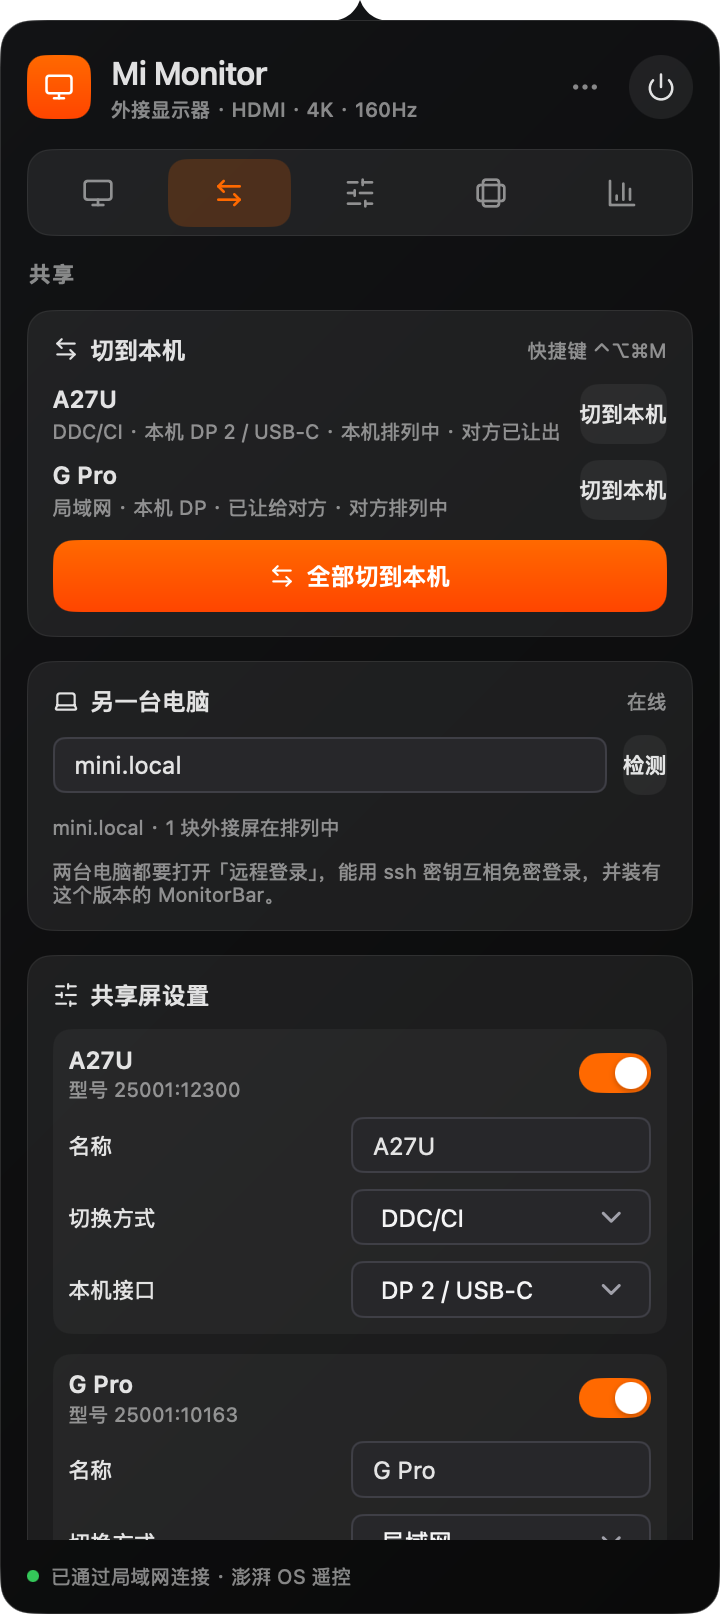
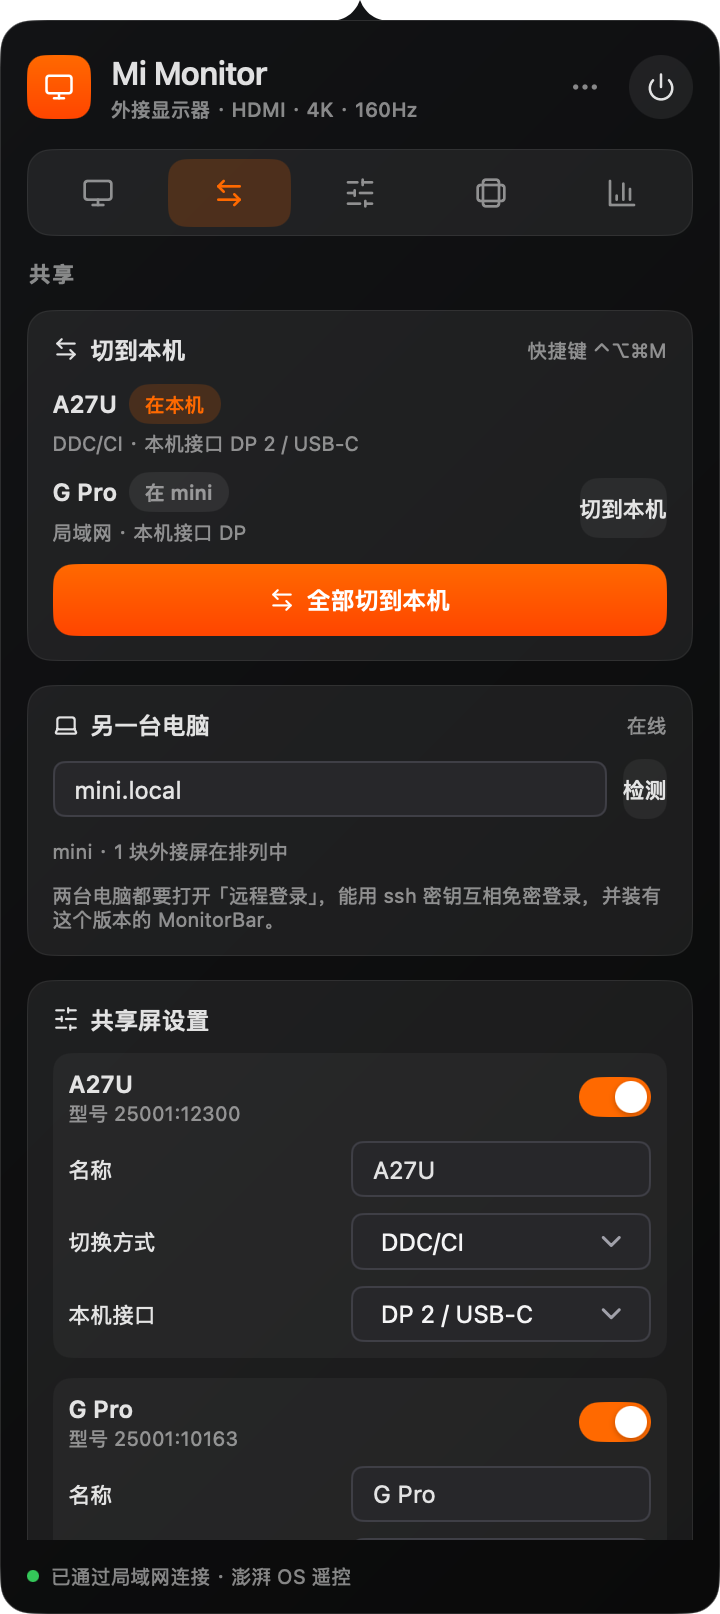
Show where each shared screen is, not the last outcome
The pull card kept saying 已切到本机 after the other computer had taken the
screens. Each shared screen now shows which computer it is on, read from the
two arrangements (after a pull only one keeps it), named by Mac model. When
the displays change here, the other side is asked again and an outcome older
than a few seconds is cleared. A screen already here has no 切到本机 button.

diff --git a/share_tab.go b/share_tab.go
@@ -33,13 +33,15 @@ func (p *panel) pullCard(c *ui.Context, detailed bool) {
 			ui.Text(c, "还没有共享屏。在「共享屏设置」里打开两台电脑共用的显示器。").FontSize(10).TextColor(muted)
 			return
 		}
-		if detailed {
-			ui.Column(c).Gap(8).Children(func() {
-				for _, sc := range s.prefs.Shared {
+		ui.Column(c).Gap(8).Children(func() {
+			for _, sc := range s.prefs.Shared {
+				if detailed {
 					p.sharedRow(c.Key(sc.Key), sc)
+				} else {
+					p.sharedLine(c.Key(sc.Key), sc)
 				}
-			})
-		}
+			}
+		})
 		btn := ui.Box(c.Key("pull-all")).Height(36).Radius(10).Center().Cursor(ui.CursorPointer).Label("全部切到本机")
 		if s.share.pulling {
 			btn.Background(ui.RGBA(255, 255, 255, 0.08))
@@ -66,25 +68,47 @@ func (p *panel) pullCard(c *ui.Context, detailed bool) {
 	})
 }
 
+// sharedLine is a shared screen on 概览: its name and where it is.
+func (p *panel) sharedLine(c *ui.Context, sc sharedScreen) {
+	where, here := p.s.location(sc.Key)
+	ui.Row(c).Gap(8).AlignItems(ui.Center).Children(func() {
+		ui.Text(c, sc.Name).FontSize(12).FontWeight(500).SingleLine().Grow(1)
+		locationPill(c, where, here)
+	})
+}
+
+// sharedRow is a shared screen on 共享: where it is, how it switches, and
+// its own 切到本机 when it is elsewhere.
 func (p *panel) sharedRow(c *ui.Context, sc sharedScreen) {
 	s := p.s
+	where, here := s.location(sc.Key)
 	ui.Row(c).Gap(8).AlignItems(ui.Center).Children(func() {
-		ui.Column(c).Gap(3).Grow(1).Children(func() {
-			ui.Text(c, sc.Name).FontSize(12).FontWeight(600).SingleLine()
+		ui.Column(c).Gap(4).Grow(1).Children(func() {
+			ui.Row(c).Gap(6).AlignItems(ui.Center).Children(func() {
+				ui.Text(c, sc.Name).FontSize(12).FontWeight(600).SingleLine()
+				locationPill(c, where, here)
+			})
 			channel := "DDC/CI"
 			if sc.Channel == channelLAN {
 				channel = "局域网"
 			}
-			states := []string{channel + " · 本机 " + inputName(sc, s.inputs), s.localState(sc.Key)}
-			if peer := s.peerState(sc.Key); peer != "" {
-				states = append(states, peer)
-			}
-			ui.Text(c, strings.Join(states, " · ")).FontSize(10).TextColor(muted).SingleLine()
+			ui.Text(c, channel+" · 本机接口 "+inputName(sc, s.inputs)).FontSize(10).TextColor(muted).SingleLine()
 		})
-		if chipText(c.Key("go"), "切到本机", false) && !s.share.pulling {
+		if !here && chipText(c.Key("go"), "切到本机", false) && !s.share.pulling {
 			s.pullScreen(sc.Key)
 		}
 	})
+}
+
+// locationPill marks where a screen is, lit when it is here.
+func locationPill(c *ui.Context, text string, here bool) {
+	pill := ui.Box(c).Height(20).PaddingX(8).Radius(10).Center()
+	if here {
+		pill.Background(accent.Alpha(0.18)).TextColor(accent)
+	} else {
+		pill.Background(ui.RGBA(255, 255, 255, 0.07)).TextColor(muted)
+	}
+	pill.Children(func() { ui.Text(c, text).FontSize(10).FontWeight(600).SingleLine() })
 }
 
 // peerCard sets and checks the other computer.
@@ -116,7 +140,7 @@ func (p *panel) peerCard(c *ui.Context) {
 		})
 		switch {
 		case s.share.peer != nil:
-			ui.Text(c, fmt.Sprintf("%s · %d 块外接屏在排列中", s.share.peer.Host, activeCount(s.share.peer.Screens))).FontSize(10).TextColor(muted)
+			ui.Text(c, fmt.Sprintf("%s · %d 块外接屏在排列中", s.share.peer.Label(), activeCount(s.share.peer.Screens))).FontSize(10).TextColor(muted)
 		case s.share.peerErr != "":
 			ui.Text(c, s.share.peerErr).FontSize(10).TextColor(muted)
 		}

diff --git a/share_test.go b/share_test.go
@@ -161,9 +161,8 @@ func TestShareTab(t *testing.T) {
 	p, _ := testPanel(t)
 	seedShare(p)
 	tt := newTester(p)
-	for _, want := range []string{"切到本机", "全部切到本机", "快捷键 ⌃⌥⌘M", "A27U", "G Pro",
-		"DDC/CI · 本机 DP 2 / USB-C · 本机排列中 · 对方已让出", "局域网 · 本机 DP · 已让给对方 · 对方排列中",
-		"另一台电脑", "在线", "共享屏设置"} {
+	for _, want := range []string{"切到本机", "全部切到本机", "快捷键 ⌃⌥⌘M", "A27U", "G Pro", "在本机", "在 mini",
+		"DDC/CI · 本机接口 DP 2 / USB-C", "局域网 · 本机接口 DP", "另一台电脑", "在线", "共享屏设置"} {
 		if !tt.HasText(want) {
 			t.Errorf("missing %q in %q", want, tt.Texts())
 		}
@@ -191,5 +190,60 @@ func TestInputName(t *testing.T) {
 	}
 	if got := shortcutLabel("Ctrl+Alt+Cmd+M"); got != "⌃⌥⌘M" {
 		t.Errorf("shortcut label %q", got)
+	}
+}
+
+func TestLocation(t *testing.T) {
+	p, _ := testPanel(t)
+	s := p.s
+	here := display.Screen{ID: 3, Vendor: 25001, Model: 12300, Active: true}
+	cases := []struct {
+		name     string
+		local    []display.Screen
+		disabled map[string]uint32
+		peer     *peer.Status
+		want     string
+		wantHere bool
+	}{
+		{"here only", []display.Screen{here}, nil, &peer.Status{Host: "mini.local"}, "在本机", true},
+		{"there only", nil, map[string]uint32{keyA27U: 3}, &peer.Status{Host: "mini.local", Name: "Sqlver的Mac mini",
+			Screens: []peer.Screen{{Key: keyA27U, Active: true}}}, "在 Sqlver的Mac mini", false},
+		{"both", []display.Screen{here}, nil, &peer.Status{Host: "mini.local", Screens: []peer.Screen{{Key: keyA27U, Active: true}}}, "两台都连着", false},
+		{"peer unknown, here", []display.Screen{here}, nil, nil, "本机已连接", true},
+		{"peer unknown, given away", nil, map[string]uint32{keyA27U: 3}, nil, "已让给另一台", false},
+	}
+	for _, c := range cases {
+		s.share.screens, s.share.disabled, s.share.peer = c.local, c.disabled, c.peer
+		if got, h := s.location(keyA27U); got != c.want || h != c.wantHere {
+			t.Errorf("%s: location = %q, %v; want %q, %v", c.name, got, h, c.want, c.wantHere)
+		}
+	}
+}
+
+// A pull's outcome must not outlive the other computer taking the screens.
+func TestStaleResultsClear(t *testing.T) {
+	p, _ := testPanel(t)
+	s := p.s
+	s.share.results, s.share.resultsAt = []string{"A27U：已切到本机"}, time.Now()
+	s.screensChanged() // the pull's own display change, moments later
+	if len(s.share.results) == 0 {
+		t.Fatal("a fresh outcome was cleared")
+	}
+	s.share.resultsAt = time.Now().Add(-time.Minute)
+	s.screensChanged() // later: the other side took the screen
+	if len(s.share.results) != 0 {
+		t.Errorf("stale outcome kept: %q", s.share.results)
+	}
+}
+
+func TestOverviewShowsWhere(t *testing.T) {
+	p, _ := testPanel(t)
+	seedShare(p)
+	p.s.prefs.Tab = "概览"
+	tt := newTester(p)
+	for _, want := range []string{"A27U", "在本机", "G Pro", "在 mini", "全部切到本机"} {
+		if !tt.HasText(want) {
+			t.Errorf("missing %q in %q", want, tt.Texts())
+		}
 	}
 }

diff --git a/store_share.go b/store_share.go
@@ -4,6 +4,7 @@ import (
 	"fmt"
 	"slices"
 	"strings"
+	"time"
 
 	"github.com/egoist/mygo"
 
@@ -21,7 +22,8 @@ type shareState struct {
 	checking   bool
 	pulling    bool
 	results    []string // the last 切到本机, one line per screen
-	shortcutOn string   // the shortcut registered, "" when none
+	resultsAt  time.Time
+	shortcutOn string // the shortcut registered, "" when none
 }
 
 func (s *store) peerLink() peer.SSH { return peer.SSH{Host: s.prefs.PeerHost} }
@@ -83,35 +85,51 @@ func (s *store) pullScreens(screens []sharedScreen) {
 		results := pull(ops, screens)
 		shareLog("pull done: %s", strings.Join(results, " | "))
 		s.post(func() {
-			s.share.pulling, s.share.results = false, results
+			s.share.pulling, s.share.results, s.share.resultsAt = false, results, time.Now()
 			s.refreshScreens()
 			s.checkPeer()
 		})
 	}()
 }
 
-// localState names where a shared screen stands on this computer.
-func (s *store) localState(key string) string {
-	if sc, ok := display.FindScreen(s.share.screens, key); ok && sc.Active {
-		return "本机排列中"
+// screensChanged follows the displays changing here: the other computer
+// may have just taken a screen away, so the last outcome no longer holds
+// and the other side's state is asked again.
+func (s *store) screensChanged() {
+	s.refreshScreens()
+	if !s.share.pulling && time.Since(s.share.resultsAt) > 3*time.Second {
+		s.share.results = nil
 	}
-	if s.share.disabled[key] != 0 {
-		return "已让给对方"
-	}
-	return "本机无链路"
+	s.checkPeer()
 }
 
-// peerState names where a shared screen stands on the other computer.
-func (s *store) peerState(key string) string {
-	switch {
-	case s.prefs.PeerHost == "":
-		return ""
-	case s.share.peer == nil:
-		return "对方未连接"
-	case s.share.peer.Has(key):
-		return "对方排列中"
+// location says which computer a shared screen is on, as far as the two
+// arrangements tell: after 切到本机 only one of them keeps it. here is true
+// when it is this computer.
+func (s *store) location(key string) (text string, here bool) {
+	local := false
+	if sc, ok := display.FindScreen(s.share.screens, key); ok && sc.Active {
+		local = true
 	}
-	return "对方已让出"
+	if s.share.peer == nil { // the other side unknown: say what this side knows
+		if local {
+			return "本机已连接", true
+		}
+		if s.share.disabled[key] != 0 {
+			return "已让给另一台", false
+		}
+		return "本机无链路", false
+	}
+	remote, name := s.share.peer.Has(key), s.share.peer.Label()
+	switch {
+	case local && !remote:
+		return "在本机", true
+	case remote && !local:
+		return "在 " + name, false
+	case local && remote:
+		return "两台都连着", false
+	}
+	return "两台都未连接", false
 }
 
 // sharedIndex is the position of the screen in the settings, or -1.

diff --git a/share.go b/share.go
@@ -4,6 +4,7 @@ import (
 	"encoding/json"
 	"fmt"
 	"os"
+	"os/exec"
 	"path/filepath"
 	"strconv"
 	"strings"
@@ -141,7 +142,7 @@ func releaseCommand(args []string) {
 // statusCommand is "--status": the displays in this computer's arrangement.
 func statusCommand() {
 	host, _ := os.Hostname()
-	st := peer.Status{Host: host}
+	st := peer.Status{Host: host, Name: or(modelName(), computerName())}
 	for _, sc := range display.OnlineScreens() {
 		if !sc.Builtin {
 			st.Screens = append(st.Screens, peer.Screen{Key: sc.Key(), Active: sc.Active})
@@ -149,6 +150,33 @@ func statusCommand() {
 	}
 	out, _ := json.Marshal(st)
 	fmt.Println(string(out))
+}
+
+// modelName is the kind of Mac, e.g. "MacBook Pro" or "Mac mini": how
+// people tell their two computers apart.
+func modelName() string {
+	out, err := exec.Command("/usr/sbin/system_profiler", "SPHardwareDataType", "-json").Output()
+	if err != nil {
+		return ""
+	}
+	var data struct {
+		Hardware []struct {
+			MachineName string `json:"machine_name"`
+		} `json:"SPHardwareDataType"`
+	}
+	if json.Unmarshal(out, &data) != nil || len(data.Hardware) == 0 {
+		return ""
+	}
+	return data.Hardware[0].MachineName
+}
+
+// computerName is the name set in System Settings, e.g. "afer的MacBook Pro".
+func computerName() string {
+	out, err := exec.Command("/usr/sbin/scutil", "--get", "ComputerName").Output()
+	if err != nil {
+		return ""
+	}
+	return strings.TrimSpace(string(out))
 }
 
 func othersActive(screens []display.Screen, id uint32) bool {

diff --git a/internal/peer/peer.go b/internal/peer/peer.go
@@ -40,7 +40,16 @@ type Screen struct {
 // Status is the answer to --status.
 type Status struct {
 	Host    string   `json:"host"`
+	Name    string   `json:"name,omitempty"` // the computer's name, as the user set it
 	Screens []Screen `json:"screens"`
+}
+
+// Label names the other computer for the panel: its name, else its host.
+func (s Status) Label() string {
+	if s.Name != "" {
+		return s.Name
+	}
+	return strings.TrimSuffix(s.Host, ".local")
 }
 
 // Has reports whether the screen is in the other computer's arrangement.

diff --git a/panel_test.go b/panel_test.go
@@ -204,10 +204,10 @@ func TestSnapshots(t *testing.T) {
 	files := map[string]string{"概览": "overview", "共享": "sharing", "画面": "picture", "分辨率": "modes", "屏幕时间": "activity"}
 	for _, tb := range tabs {
 		p, _ := testPanel(t)
+		p.s.prefs.Tab = tb.name
 		if tb.name == "共享" {
 			seedShare(p)
 		}
-		p.s.prefs.Tab = tb.name
 		tt := newTester(p)
 		tt.SetScale(2)
 		tt.Frame()

diff --git a/store.go b/store.go
@@ -550,7 +550,7 @@ func (s *store) displaysChanged() {
 	if s.monitor != previous {
 		s.probeDDC()
 	}
-	s.refreshScreens()
+	s.screensChanged()
 }
 
 func (s *store) panelOpened() {
